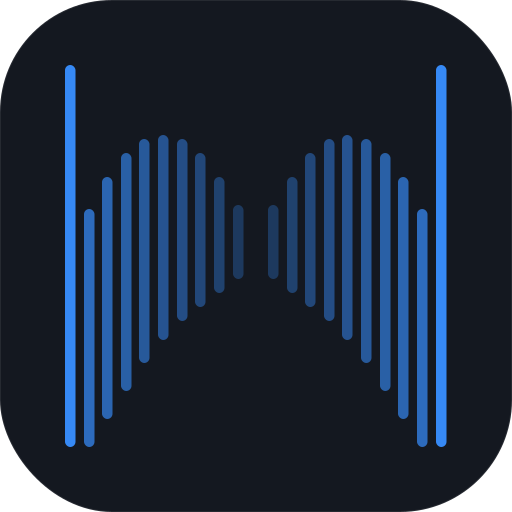
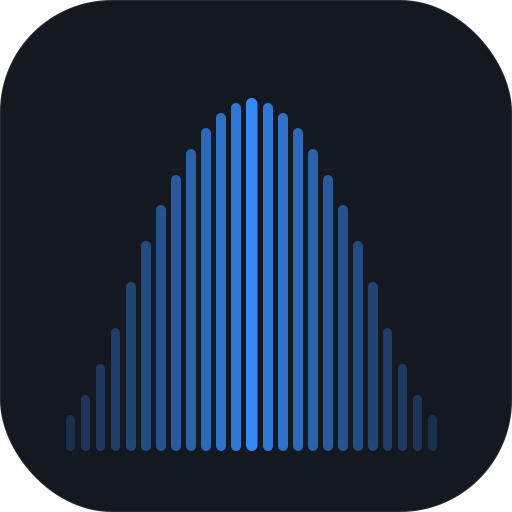
chore(release): bump version to 0.6.6
Six files in the lockstep version bump (config + UI display strings),
plus updated icon assets (.png / .ico / .icns).

Headline changes since 0.6.5:
- Sentry error monitoring (errors only, opt-out via Privacy tab)
- Voice device selection: three-layer robustness (fallback for
  CPAL default-lookup failures, pipeline survives initial output
  failure, saved preferences honored from first build attempt)
- DM unread badge bumps in real time regardless of active view;
  ConversationSidebar now also shows the badge
- Server tile cursor turns into pointer hand on hover
- Updated app icon

First release where the auto-update path proves itself end-to-end:
installed 0.6.5 clients should pick up 0.6.6 automatically via the
latest.yml metadata uploaded in the previous release. Source maps
will also upload for the first time, making future renderer stack
traces in Sentry readable.

diff --git a/electron-client/src/features/auth/LoginPage.tsx b/electron-client/src/features/auth/LoginPage.tsx
@@ -43,7 +43,7 @@ export default function LoginPage() {
 
   return (
     <div className="relative flex h-screen w-screen items-center justify-center bg-bg-primary">
-      <p className="absolute bottom-3 right-4 text-[11px] text-text-muted">Decibell 0.6.5</p>
+      <p className="absolute bottom-3 right-4 text-[11px] text-text-muted">Decibell 0.6.6</p>
       <form
         onSubmit={handleSubmit}
         className="w-full max-w-[400px] rounded-2xl border border-border bg-bg-secondary p-8 shadow-2xl"

diff --git a/electron-client/src/features/settings/tabs/AboutTab.tsx b/electron-client/src/features/settings/tabs/AboutTab.tsx
@@ -23,7 +23,7 @@ export default function AboutTab() {
           </div>
         </div>
         <div className="text-[12px] text-text-secondary">
-          Version <span className="font-medium text-text-primary">{currentVersion || "0.6.5"}</span>
+          Version <span className="font-medium text-text-primary">{currentVersion || "0.6.6"}</span>
         </div>
       </div>
 